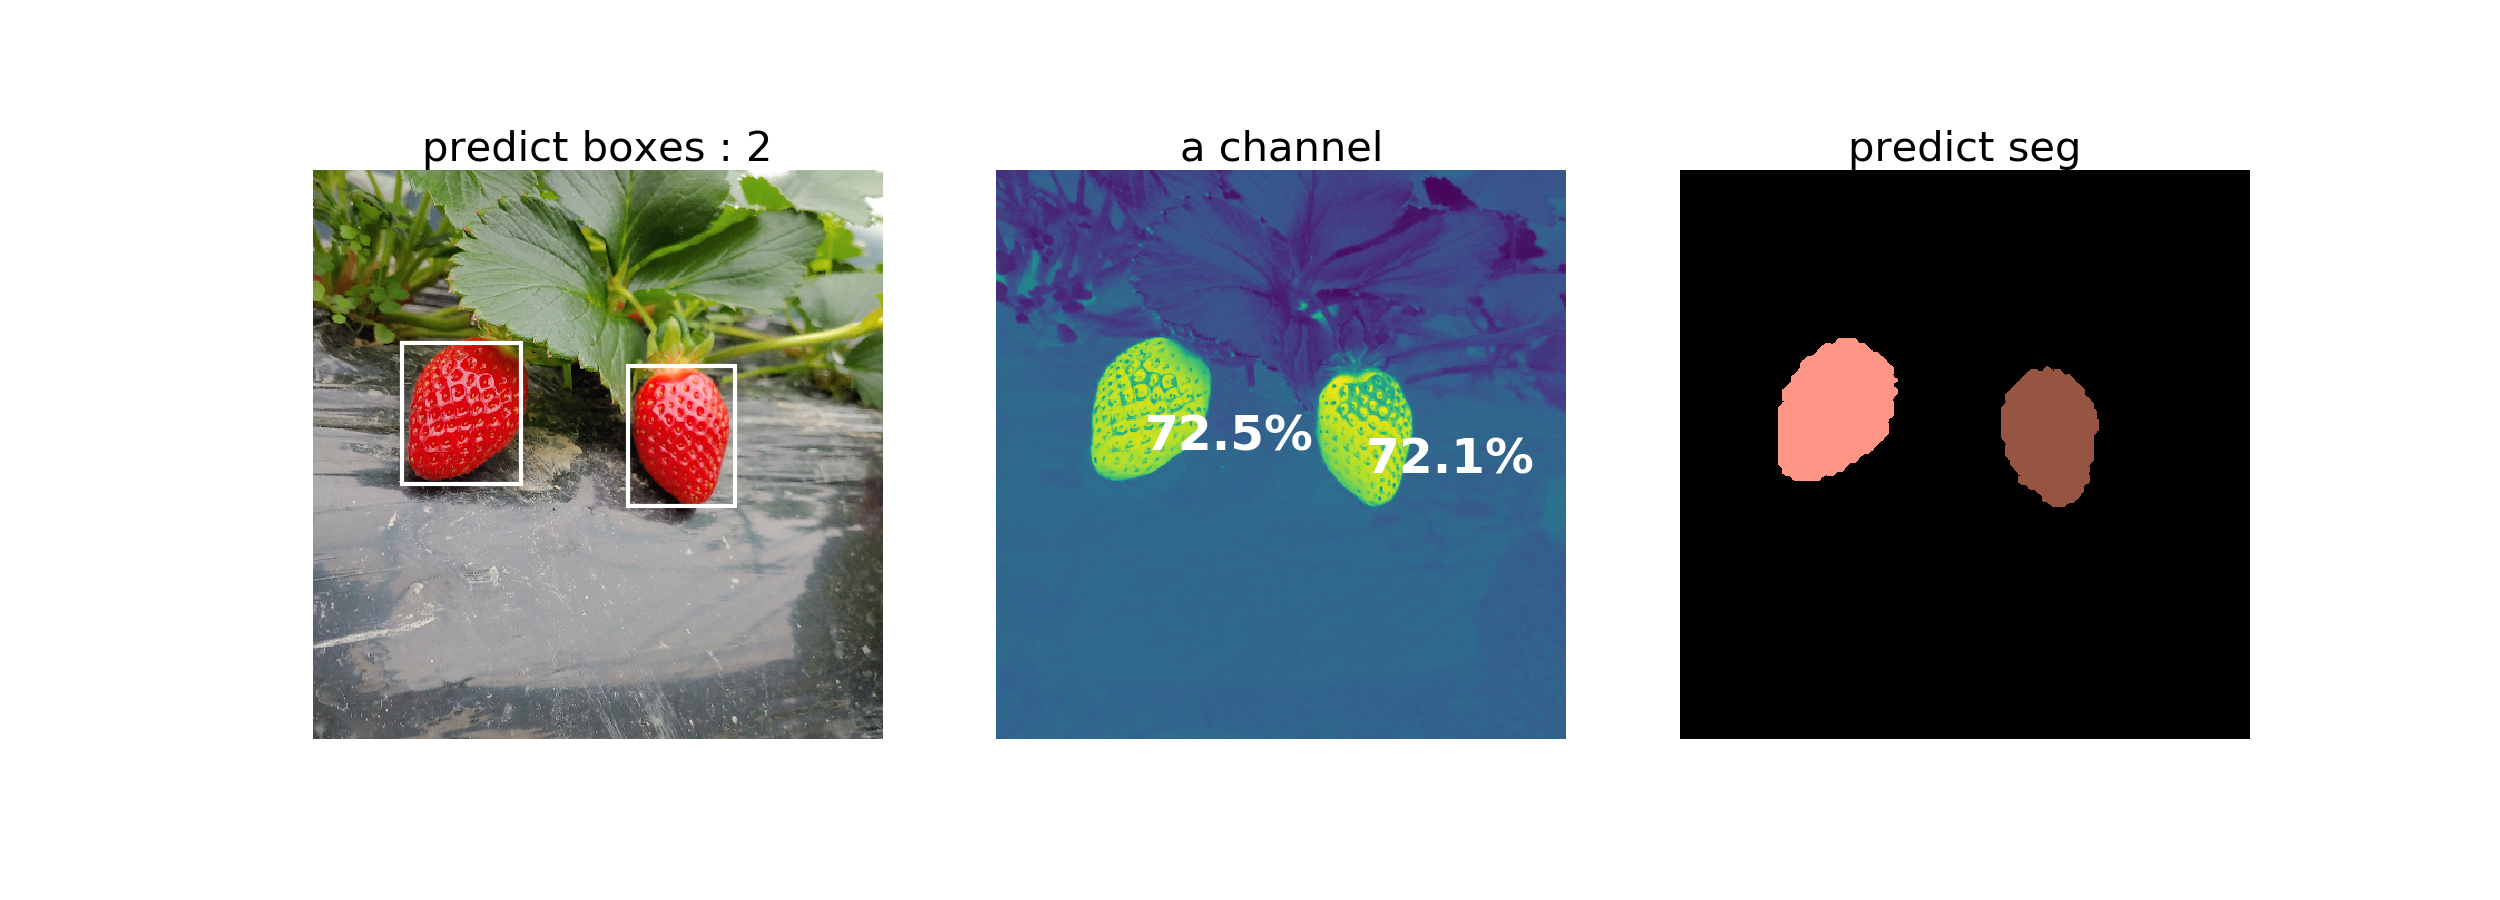
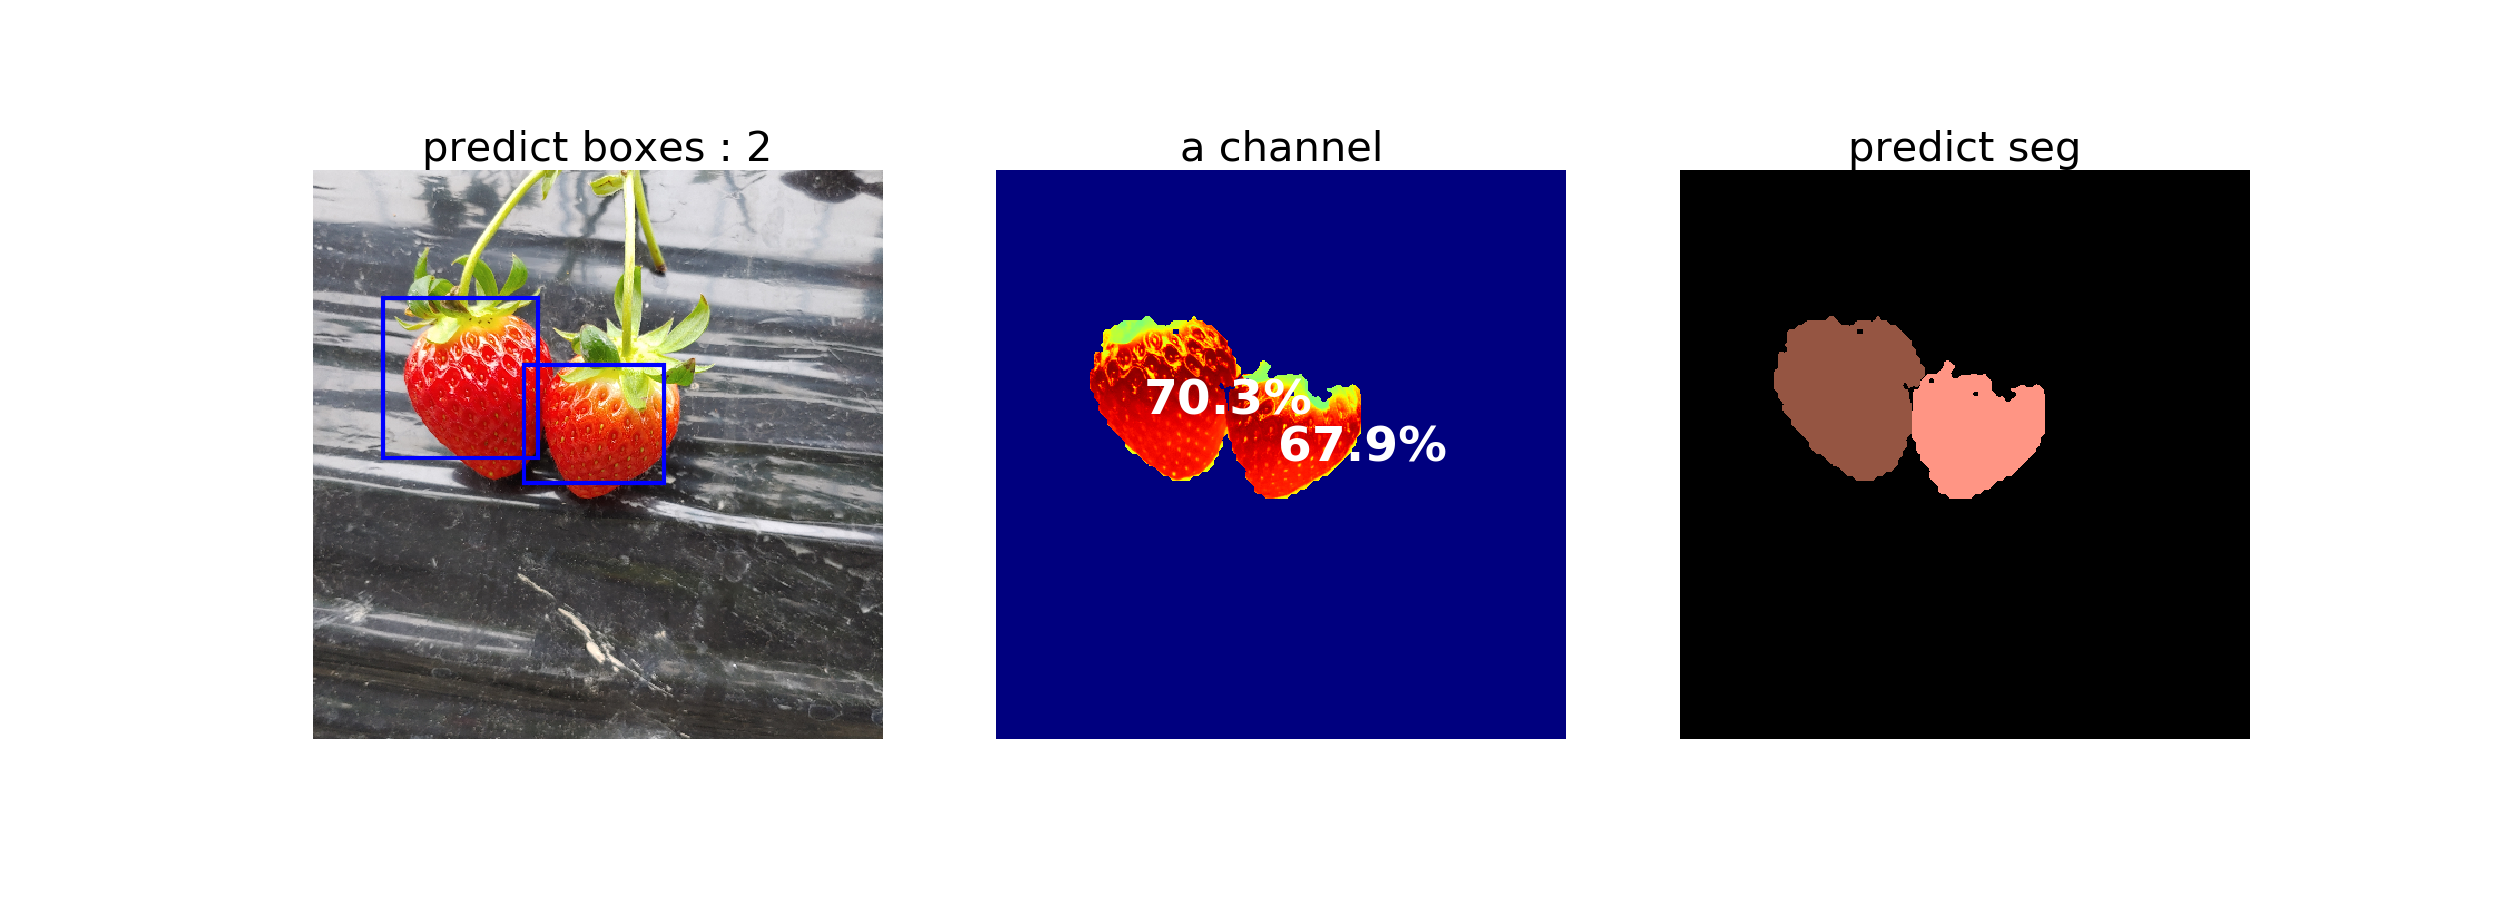
init

Changed region(s): [[0.1248, 0.1867, 0.624, 0.84], [0.6864, 0.3422, 0.8424, 0.56]]

diff --git a/utils/Visualizer.py b/utils/Visualizer.py
@@ -44,14 +44,14 @@ class Visualizer(object):
                              (36, 137, 176),
                              (221, 160, 246),
                              (247, 72, 119),
-                             (0, 173, 95),
+                             (1, 173, 95),
                              (255, 75, 90),
-                             (0, 187, 236),
+                             (1, 187, 236),
                              (189, 89, 212),
-                             (255, 131, 0),
+                             (255, 131, 1),
                              (235, 72, 71),
                              (128, 88, 189),
-                             (0, 181, 233),
+                             (1, 181, 233),
                              (98, 216, 182),
                              (194, 226, 84),
                              (255, 217, 101),
@@ -86,7 +86,7 @@ class Visualizer(object):
                     ((predict_cw - predict_w / 2), predict_ch - predict_h / 2),
                     predict_w, predict_h,
                     linewidth=3,
-                    edgecolor='w',
+                    edgecolor='b',
                     facecolor='none')
 
                 self.rects.append(rect)
@@ -119,6 +119,7 @@ class Visualizer(object):
             self.mask_predict = np.transpose(self.mask_predict, [1, 2, 0])
             self.mask_target = np.transpose(self.mask_target, [1, 2, 0])
 
+            self.a_channel[np.where(self.mask_predict[:, :, 0] == 0)] = -127
             # skip target box.
 
             '''
@@ -144,10 +145,10 @@ class Visualizer(object):
                 ax1.add_patch(self.rects[idx])
                 y, x = self.centers[idx]
                 # ax1.annotate(str(self.scores[idx])[:4], (x, y), color='w', weight='bold', fontsize=8, ha='left', va='top')
-                ax15.annotate(str((self.ripe_scores[idx] + 128) *100 / 256)[:4] +"%",
+                ax15.annotate(str((self.ripe_scores[idx] + 128) * 100 / 256)[:4] + "%",
                               (x, y), color='w', weight='bold', fontsize=35, ha='left', va='top')
 
-            ax15.imshow(self.a_channel)
+            ax15.imshow(self.a_channel, cmap="jet")
 
             ax2.imshow(self.mask_predict)
             # ax3.imshow(self.mask_target)
